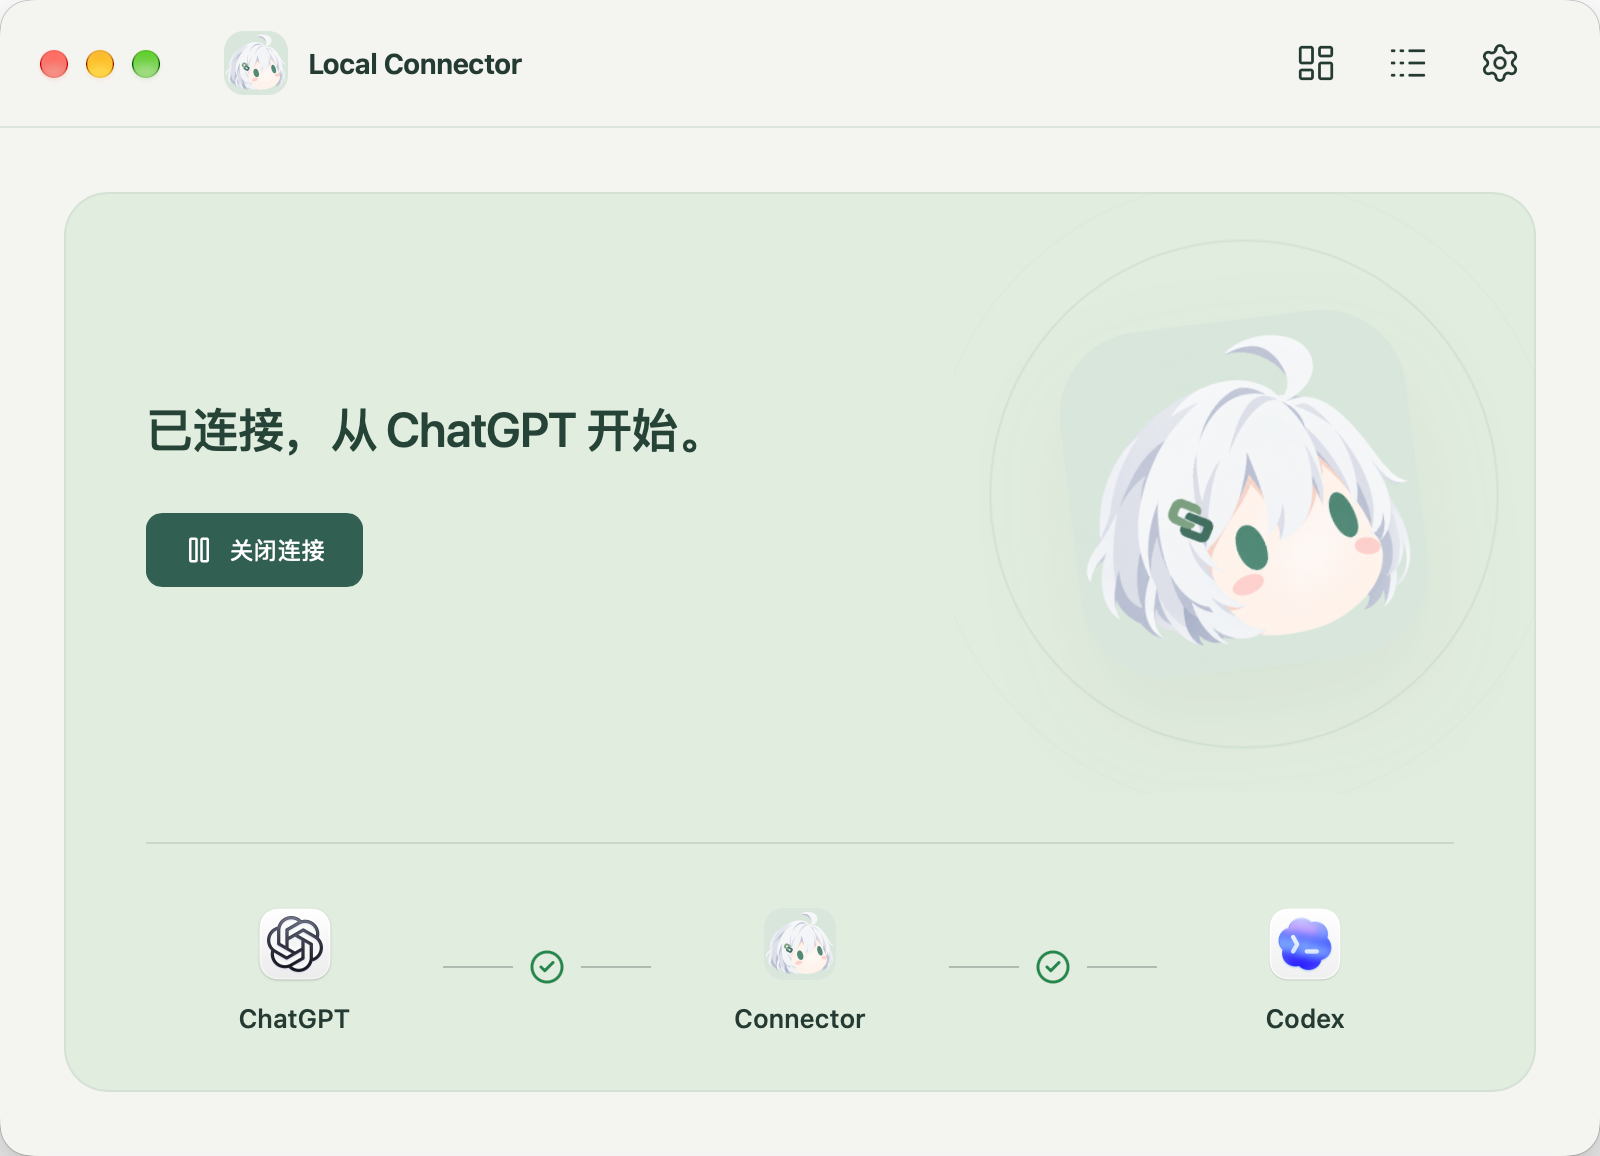
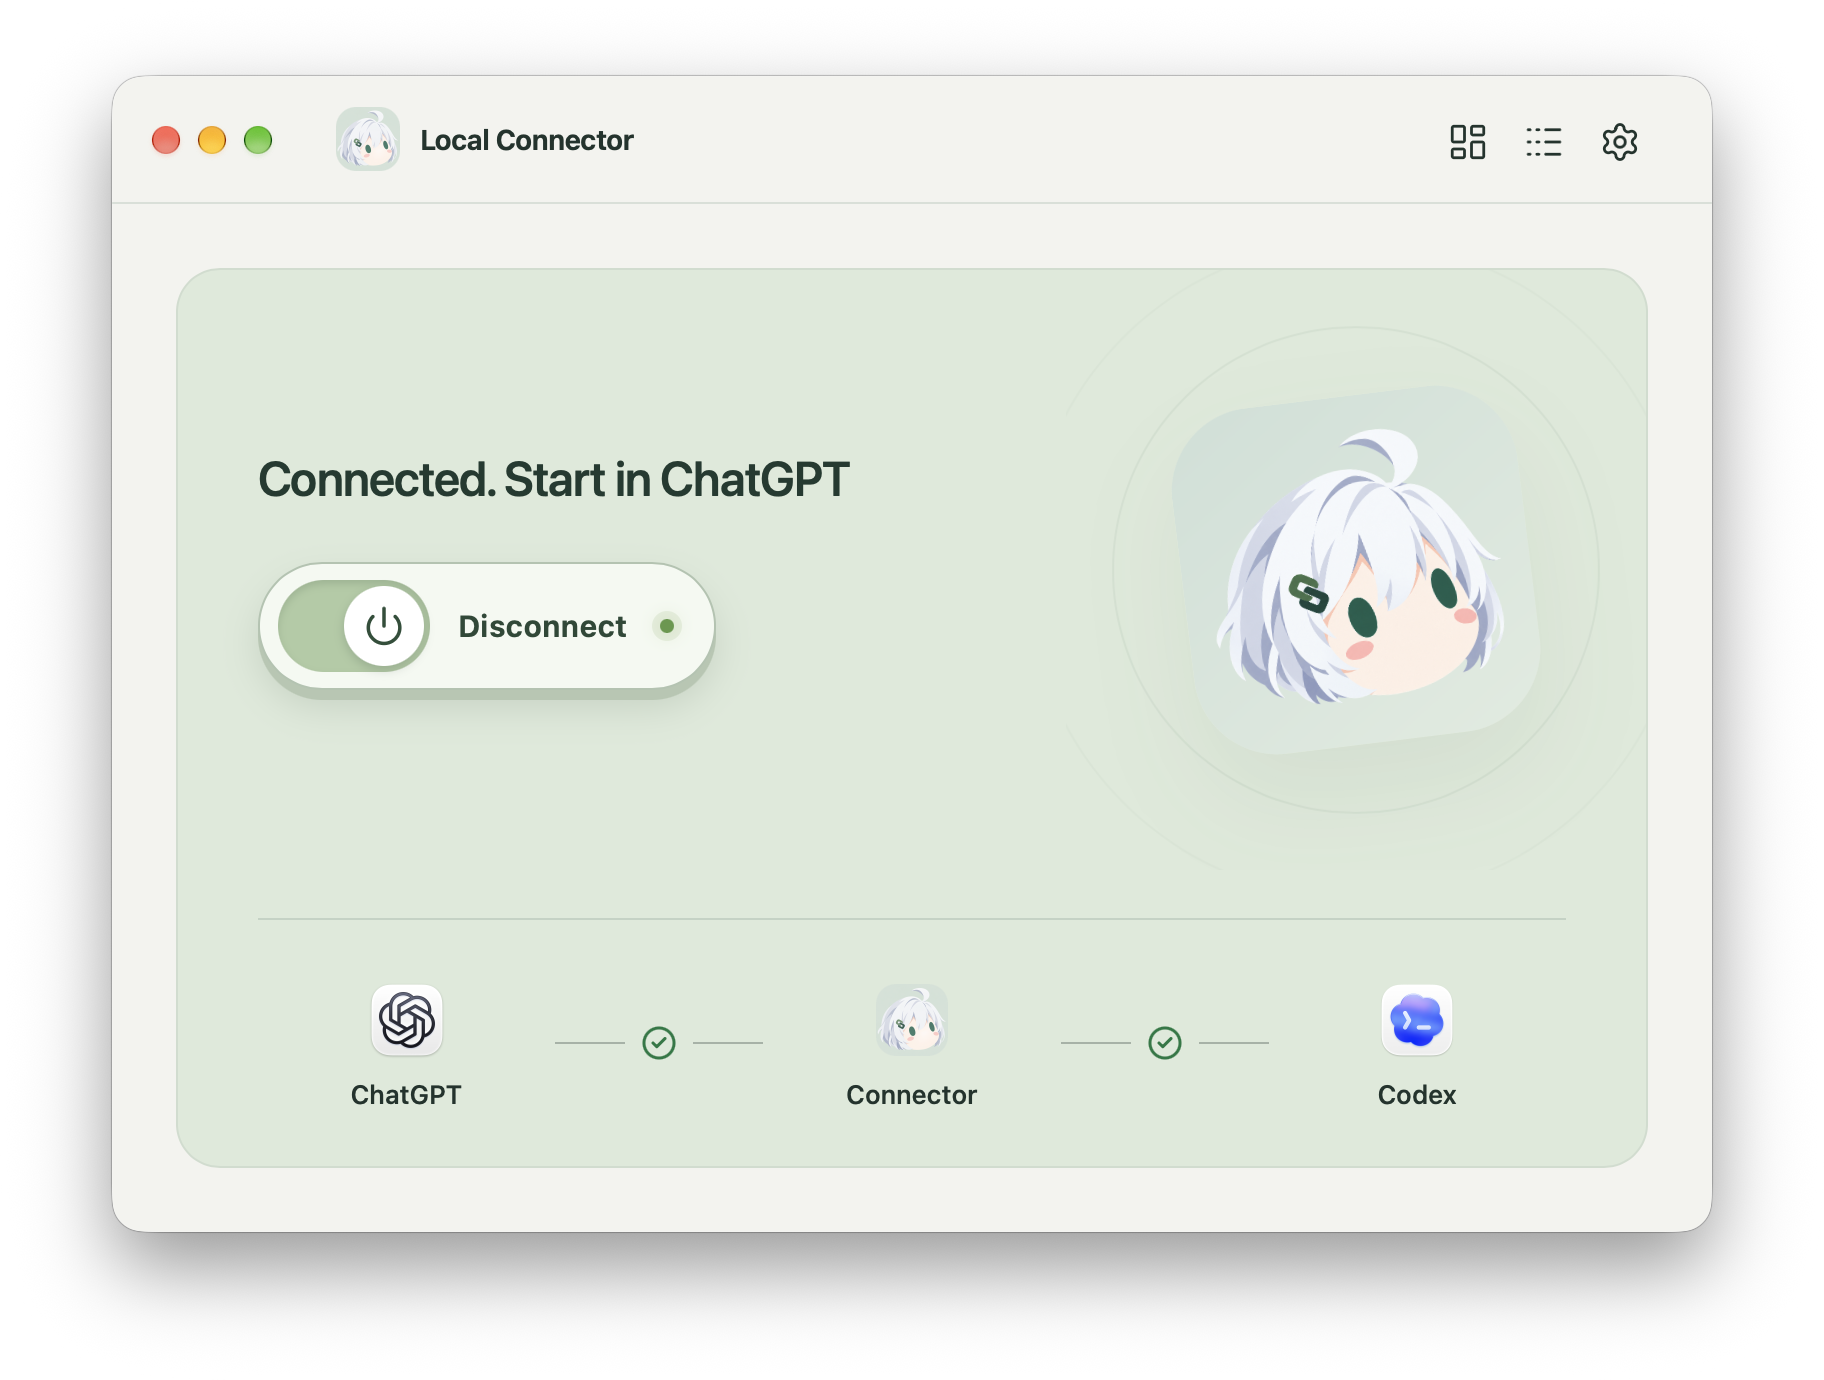
fix(ui): 优化日志类型列宽并更新中文截图

diff --git a/ui/style.css b/ui/style.css
@@ -15,7 +15,7 @@
 @media(prefers-color-scheme:dark){:root[data-theme=system]{color-scheme:dark;--ink:#d6e0d5;--muted:#91a398;--line:#34453c;--green:#82aa90;--soft:#263b31;--surface:#20322a;--canvas:#17241f;color:var(--ink);background:var(--canvas)}:root[data-theme=system] .connection-panel{background:#263f30;border-color:#3b5743}:root[data-theme=system] .connection-content h2{color:#d9e6d9}:root[data-theme=system] .connection-content p,:root[data-theme=system] .connection-label{color:#9fb6a3}:root[data-theme=system] .primary{color:#16251c}
 }
 
-html,body,#app{height:100%;overflow:hidden}.app-scene{height:100dvh;min-height:0;padding-top:64px;overflow:hidden}.app-header{position:fixed;inset:0 0 auto;height:64px;z-index:10;padding:0 32px;background:var(--canvas);border-bottom:1px solid var(--line)}.mac .app-header{padding-left:112px}.brand{gap:10px;font-size:14px}.brand img{width:32px;height:32px;border-radius:10px}.top-nav button{width:var(--control-height);height:var(--control-height);padding:4px}.header-page-title{display:flex;align-items:center;gap:10px}.header-page-title button{padding:4px;display:grid;place-items:center}.header-page-title svg{width:20px;height:20px}.header-page-title h1{font-size:15px;line-height:1;margin:0;letter-spacing:0;font-weight:600}.workspace{height:100%;width:100%;max-width:none;margin:0;overflow-y:auto;overflow-x:hidden;padding:32px;scrollbar-gutter:auto}.settings-fields{grid-template-columns:1fr;gap:0}.settings-block .card-head{align-items:flex-start;gap:24px}.small-button,.primary.small-button{padding:0 var(--control-padding-x);font-size:var(--control-font-size);border-radius:var(--control-radius);flex-shrink:0}.theme-options{display:flex;gap:5px;background:var(--soft);padding:4px;border-radius:10px}.theme-options button{display:grid;place-items:center;width:var(--control-height);height:var(--control-height);padding:0;border:1px solid transparent;background:transparent;border-radius:var(--control-radius)}.theme-options button.active{background:var(--surface);border-color:var(--line);color:var(--green);box-shadow:0 1px 3px #0000000a}.theme-options svg{width:18px;height:18px}.records-workspace{padding-top:0;padding-bottom:0}.records-toolbar{position:sticky;top:0;z-index:2;display:flex;align-items:center;gap:12px;min-height:56px;background:var(--canvas);border-bottom:1px solid var(--line);padding:8px 0}.log-filters{display:flex;gap:2px}.log-filters button{padding:0 8px;border:0;border-radius:var(--control-radius);font-size:var(--control-font-size);background:transparent;color:var(--muted)}.log-filters button.active{background:var(--soft);color:var(--ink)}.log-search{margin:0 0 0 auto;display:flex;align-items:center;gap:6px;min-width:100px;max-width:180px}.log-search svg{width:14px;height:14px;color:var(--muted)}.log-search input{border:0;border-radius:5px;padding:6px 8px;background:var(--soft);font-size:11px;min-width:0}.log-count{font-size:10px;color:var(--muted);white-space:nowrap}.log-table-head,.log-entry{display:grid;grid-template-columns:100px 44px minmax(0,1fr);gap:12px;padding:7px 10px;align-items:start}.log-table-head{position:sticky;top:56px;z-index:1;background:var(--canvas);border-bottom:1px solid var(--line);font-size:10px;color:var(--muted);height:30px}.log-entry{font:11px/1.6 ui-monospace,SFMono-Regular,Consolas,monospace;border-bottom:1px solid color-mix(in srgb,var(--line) 50%,transparent);padding-top:6px;padding-bottom:6px}.log-entry:nth-child(odd){background:color-mix(in srgb,var(--soft) 35%,transparent)}.log-entry:hover{background:var(--soft)}.log-entry time{color:var(--muted);font-variant-numeric:tabular-nums;white-space:nowrap}.log-kind{font:10px/1.8 -apple-system,BlinkMacSystemFont,sans-serif;color:var(--green)}.log-kind.is-error{color:#c05449}.log-kind.is-warning{color:#a47735}.log-kind.is-debug{color:var(--muted)}.log-content{overflow-wrap:anywhere;white-space:pre-wrap;min-width:0}.log-detail{color:var(--muted)}.records-empty{padding:24px 10px}@media(max-width:600px){.workspace{padding-left:20px;padding-right:20px}.app-header{padding-right:20px;padding-left:20px}.records-toolbar{gap:6px;flex-wrap:wrap}.log-search{max-width:130px}.log-table-head,.log-entry{grid-template-columns:90px 34px minmax(0,1fr);gap:8px}}
+html,body,#app{height:100%;overflow:hidden}.app-scene{height:100dvh;min-height:0;padding-top:64px;overflow:hidden}.app-header{position:fixed;inset:0 0 auto;height:64px;z-index:10;padding:0 32px;background:var(--canvas);border-bottom:1px solid var(--line)}.mac .app-header{padding-left:112px}.brand{gap:10px;font-size:14px}.brand img{width:32px;height:32px;border-radius:10px}.top-nav button{width:var(--control-height);height:var(--control-height);padding:4px}.header-page-title{display:flex;align-items:center;gap:10px}.header-page-title button{padding:4px;display:grid;place-items:center}.header-page-title svg{width:20px;height:20px}.header-page-title h1{font-size:15px;line-height:1;margin:0;letter-spacing:0;font-weight:600}.workspace{height:100%;width:100%;max-width:none;margin:0;overflow-y:auto;overflow-x:hidden;padding:32px;scrollbar-gutter:auto}.settings-fields{grid-template-columns:1fr;gap:0}.settings-block .card-head{align-items:flex-start;gap:24px}.small-button,.primary.small-button{padding:0 var(--control-padding-x);font-size:var(--control-font-size);border-radius:var(--control-radius);flex-shrink:0}.theme-options{display:flex;gap:5px;background:var(--soft);padding:4px;border-radius:10px}.theme-options button{display:grid;place-items:center;width:var(--control-height);height:var(--control-height);padding:0;border:1px solid transparent;background:transparent;border-radius:var(--control-radius)}.theme-options button.active{background:var(--surface);border-color:var(--line);color:var(--green);box-shadow:0 1px 3px #0000000a}.theme-options svg{width:18px;height:18px}.records-workspace{padding-top:0;padding-bottom:0}.records-toolbar{position:sticky;top:0;z-index:2;display:flex;align-items:center;gap:12px;min-height:56px;background:var(--canvas);border-bottom:1px solid var(--line);padding:8px 0}.log-filters{display:flex;gap:2px}.log-filters button{padding:0 8px;border:0;border-radius:var(--control-radius);font-size:var(--control-font-size);background:transparent;color:var(--muted)}.log-filters button.active{background:var(--soft);color:var(--ink)}.log-search{margin:0 0 0 auto;display:flex;align-items:center;gap:6px;min-width:100px;max-width:180px}.log-search svg{width:14px;height:14px;color:var(--muted)}.log-search input{border:0;border-radius:5px;padding:6px 8px;background:var(--soft);font-size:11px;min-width:0}.log-count{font-size:10px;color:var(--muted);white-space:nowrap}.log-table-head,.log-entry{display:grid;grid-template-columns:100px 72px minmax(0,1fr);gap:12px;padding:7px 10px;align-items:start}.log-table-head{position:sticky;top:56px;z-index:1;background:var(--canvas);border-bottom:1px solid var(--line);font-size:10px;color:var(--muted);height:30px}.log-entry{font:11px/1.6 ui-monospace,SFMono-Regular,Consolas,monospace;border-bottom:1px solid color-mix(in srgb,var(--line) 50%,transparent);padding-top:6px;padding-bottom:6px}.log-entry:nth-child(odd){background:color-mix(in srgb,var(--soft) 35%,transparent)}.log-entry:hover{background:var(--soft)}.log-entry time{color:var(--muted);font-variant-numeric:tabular-nums;white-space:nowrap}.log-kind{font:10px/1.8 -apple-system,BlinkMacSystemFont,sans-serif;color:var(--green)}.log-kind.is-error{color:#c05449}.log-kind.is-warning{color:#a47735}.log-kind.is-debug{color:var(--muted)}.log-content{overflow-wrap:anywhere;white-space:pre-wrap;min-width:0}.log-detail{color:var(--muted)}.records-empty{padding:24px 10px}@media(max-width:600px){.workspace{padding-left:20px;padding-right:20px}.app-header{padding-right:20px;padding-left:20px}.records-toolbar{gap:6px;flex-wrap:wrap}.log-search{max-width:130px}.log-table-head,.log-entry{grid-template-columns:90px 64px minmax(0,1fr);gap:8px}}
 .credential-label{display:flex;align-items:center;justify-content:space-between;gap:12px;margin:16px 0 7px}.credential-label label{margin:0}.credential-label a{display:inline-flex;align-items:center;gap:5px;font-size:11px;text-decoration:none}.credential-label a svg{width:13px;height:13px}.credential-input{position:relative}.credential-input input{padding-right:40px}.credential-input button{position:absolute;right:2px;top:2px;width:var(--control-height);height:calc(var(--control-height) - 4px);display:grid;place-items:center;padding:0;border:0;background:transparent;border-radius:var(--control-radius)}.credential-input button svg{width:16px;height:16px}
 .external-icon{width:14px;height:14px;display:inline-block;vertical-align:-2px;margin-left:3px;flex-shrink:0}
 

diff --git a/README.zh-CN.md b/README.zh-CN.md
@@ -6,7 +6,7 @@
 
 Local Connector 是 ChatGPT 和本机 coding agent 之间的小小联络员，支持 Codex Native、Pi，以及 Gemini、Claude adapter、Cursor、Grok 等内置 ACP Agent。它通过 OpenAI Secure MCP Tunnel 或 HTTPS MCP，把对话接到你的电脑上：查项目、读代码、看 Git 状态，再把任务交给 Codex，回来接着聊进展。
 
-![Local Connector 主界面：ChatGPT、Connector 与 Codex 已连接](docs/images/local-connector.png)
+![Local Connector 主界面：ChatGPT、Connector 与 Codex 已连接](docs/images/local-connector.zh-CN.png)
 
 - **少一点复制粘贴**：让 ChatGPT 直接读取本机项目、文件和 Git 状态，讨论有据可依。
 - **聊到哪，做到哪**：在对话里创建、续接或中断 Codex 任务，也能查看任务进展和结果。
